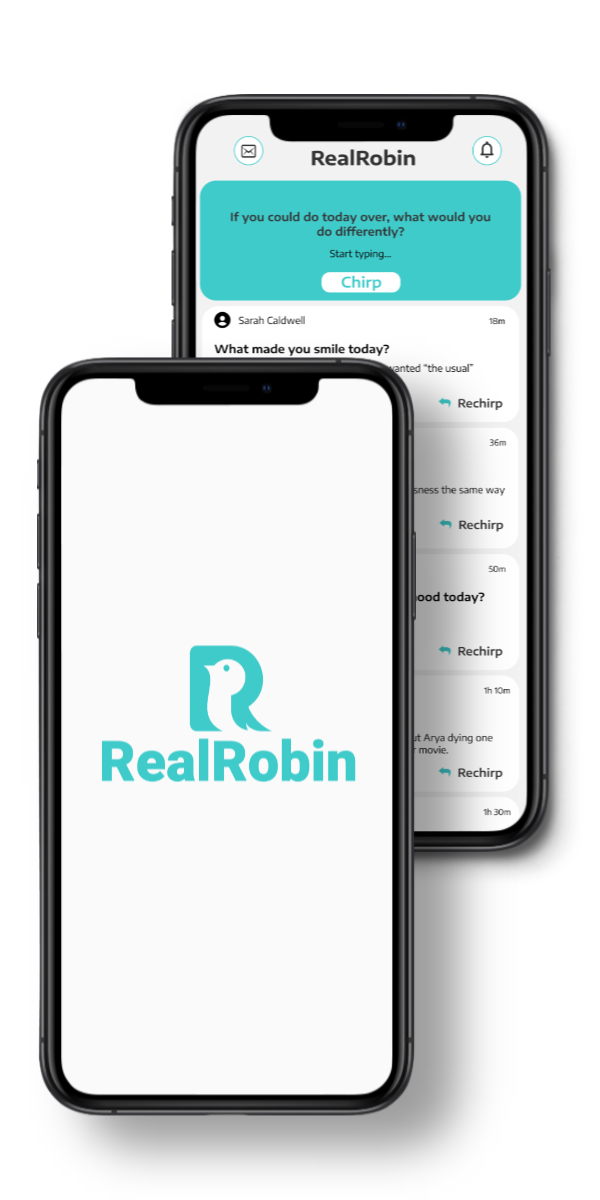
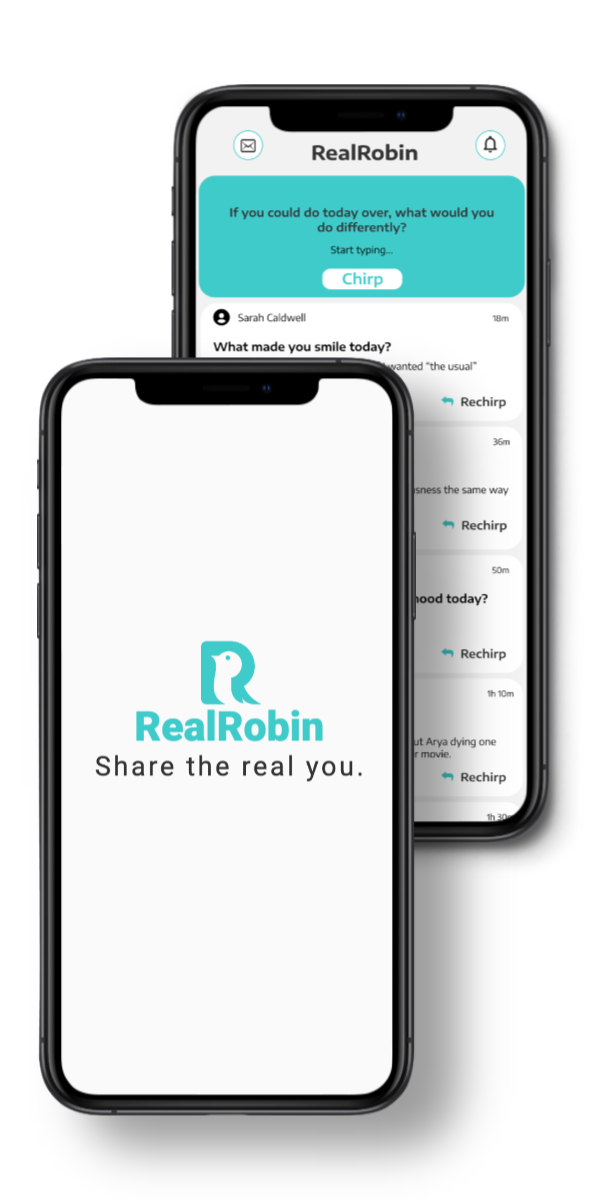
changed tagline and edited content

diff --git a/src/index.html b/src/index.html
@@ -52,8 +52,7 @@
                             RealRobin
                         </h1>
                     </div>
-                    <h2>Social Media,</h2>
-                    <h2 class="animate uppercase">designed for <span class="primary-color">you.</span>
+                    <h2 class="animate uppercase">Share the <span class="primary-color">real</span> you.
                     </h2>
                     <div class="form-container hero-form-container">
                         <div class="hero-form-header">
@@ -90,53 +89,32 @@
 
             <div class="section center">
                 <div class="section-content">
-                    <h2>
-                        Designed for authenticity.
+                    <h2>Social Media,</h2>
+                    <h2 class="uppercase">
+                        Designed for <span class="primary-color">real</span> connection.
                     </h2>
-                    <h3>
-                        Prompts to encourage equal sharing of positive and negative events
-                    </h3>
-                    <h3>
-                        Number of friends and likes aren't publicized to minimize comparison
-                    </h3>
-                </div>
-            </div>
-
-            <div class="section center">
-                <div class="section-content">
-                    <h2>
-                        Designed for connection.
-                    </h2>
-                    <h3>
-                        Prompts to facilitate sharing of memories between users
-                    </h3>
-                    <h3>
-                        Removed comments to encourage one-on-one communication
-                    </h3>
-                </div>
-            </div>
-
-            <div class="section center">
-                <div class="section-content">
-                    <h2>
-                        Designed for control.
-                    </h2>
-                    <h3>
-                        Over your data
-                    </h3>
-                    <h3>
-                        Over what's advertised to you
-                    </h3>
-                    <h3>
-                        Over the platform
-                    </h3>
+                    <div class="line-height">
+                        <h3>
+                            Prompts to encourage authenticity and facilitate genuine connection.
+                        </h3>
+                        <h3>
+                            Neutrality score to encourage equal sharing of positive and negative events.
+                        </h3>
+                        <h3>
+                            Number of friends and likes aren't publicized to minimize comparison.
+                        </h3>
+                        <h3>
+                            Removed public comments to encourage one-on-one communication.
+                        </h3>
+                    </div>
                 </div>
             </div>
 
             <div class="section center">
                 <div class="section-content">
                     <h2>Social Media,</h2>
-                    <h2 class="primary-color uppercase">redesigned.</h2>
+                    <h2 class="uppercase">designed for the <span class="primary-color">real </span>you.
+                    </h2>
                 </div>
             </div>
 

diff --git a/src/styles/style.css b/src/styles/style.css
@@ -167,6 +167,9 @@ textarea {
   width: 60%;
   height: fit-content;
 }
+.line-height {
+  line-height: 2em;
+}
 
 .form-container {
   display: flex;
